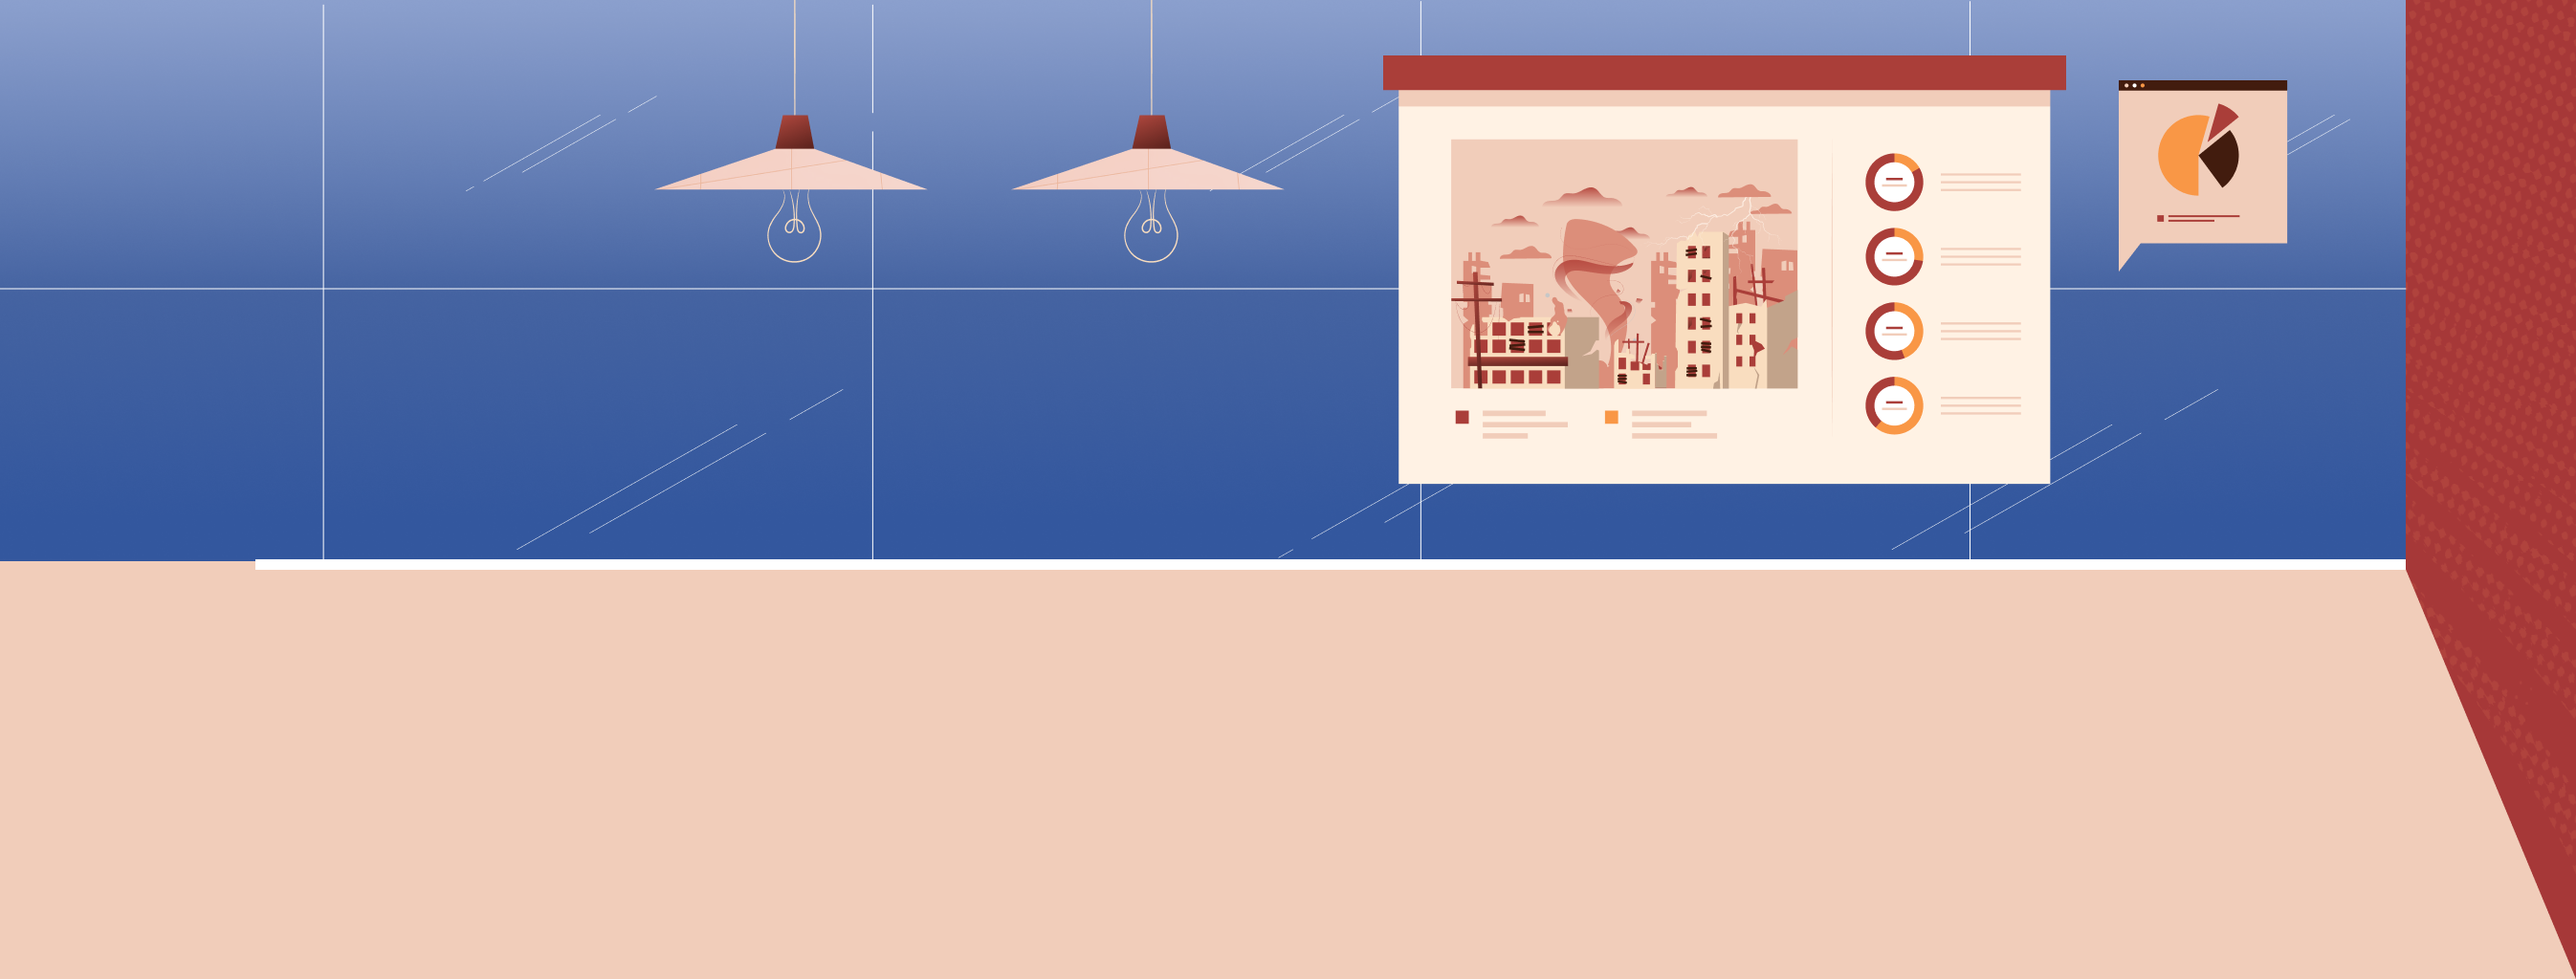
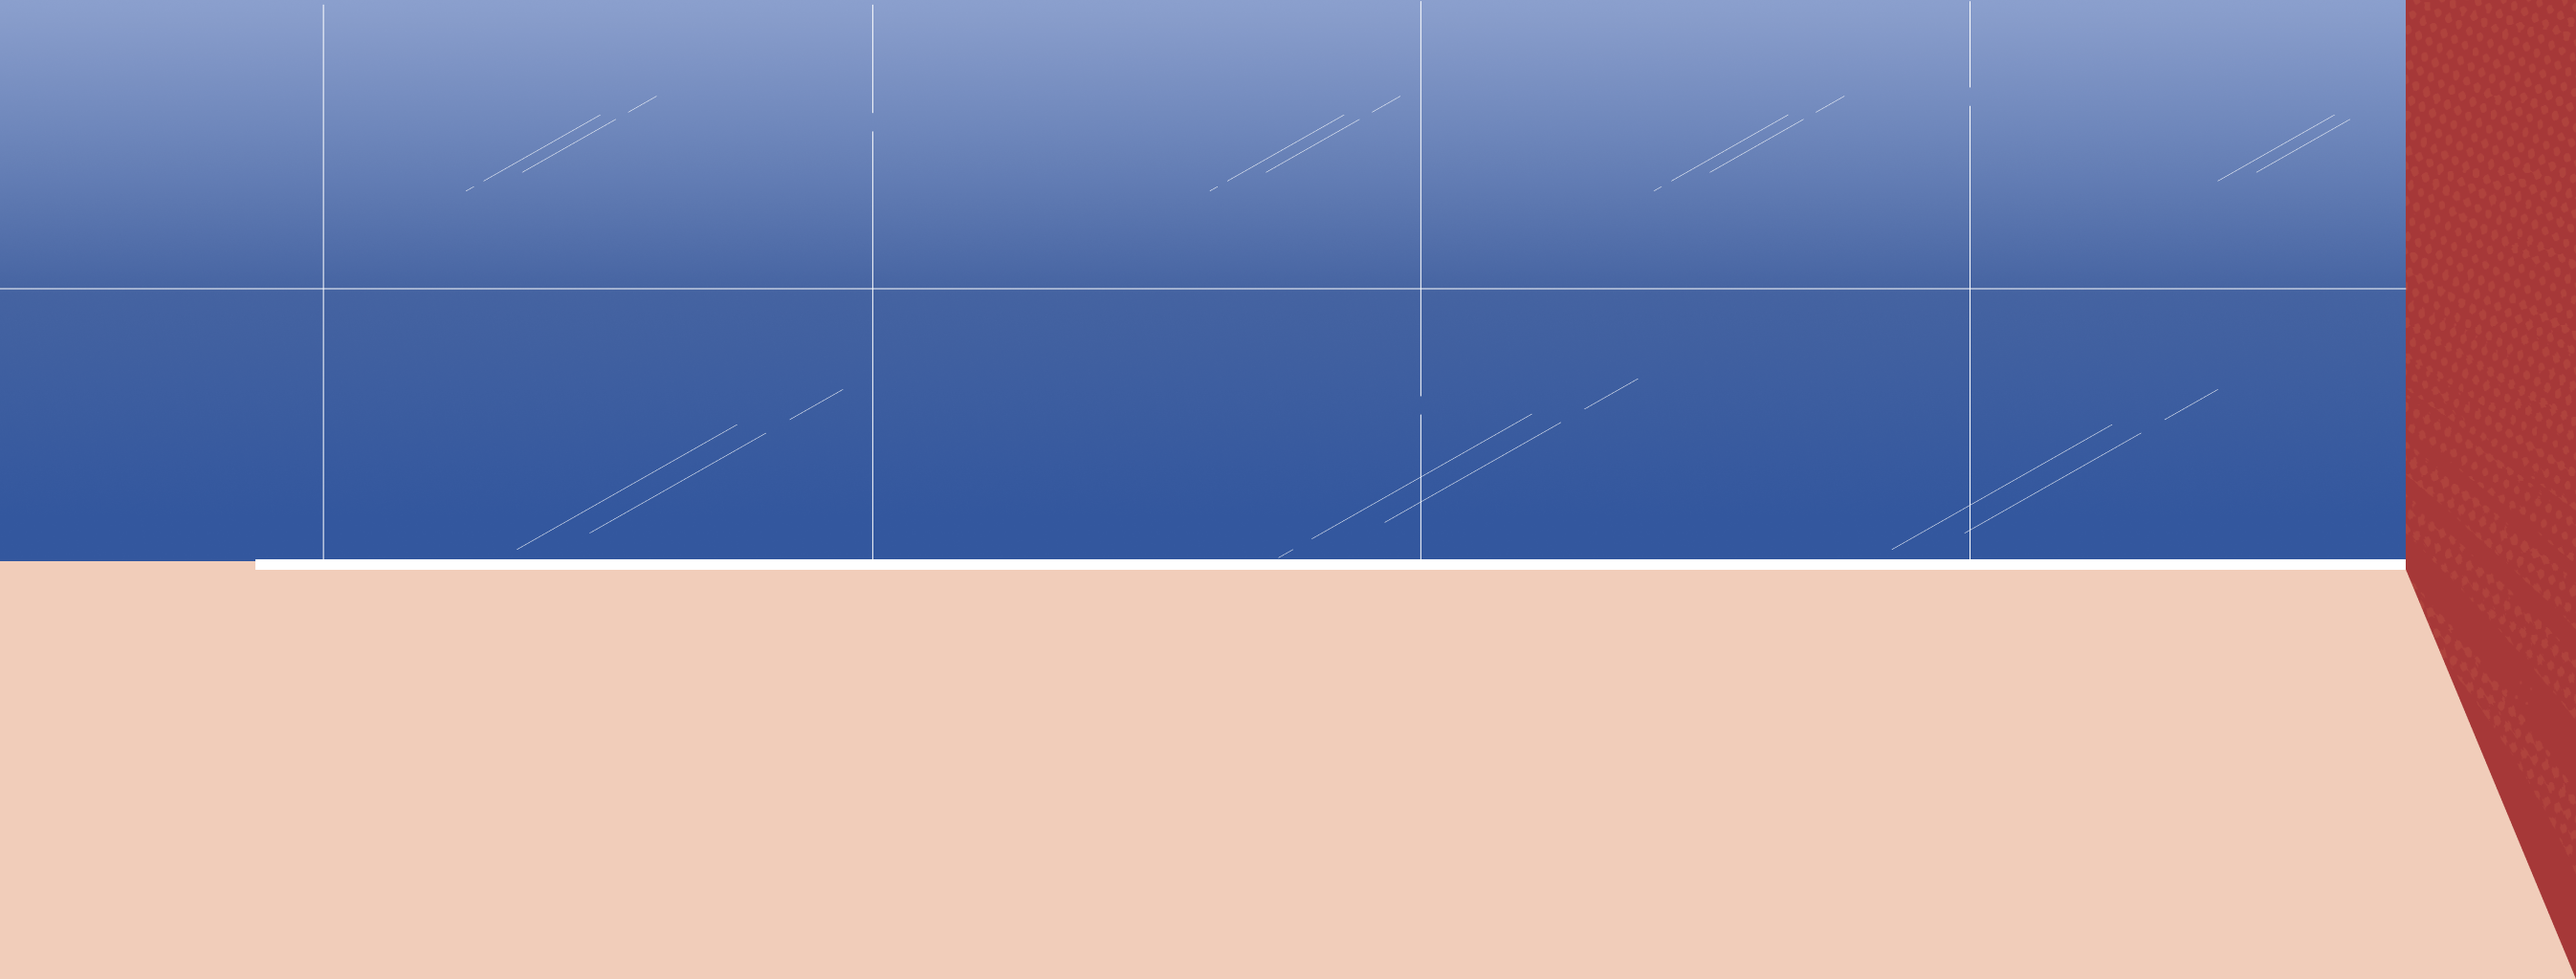
chapter-5

Changed region(s): [[0.5303, 0.0312, 0.9046, 0.5], [0.4055, 0.0938, 0.4991, 0.25], [0.2495, 0.125, 0.3743, 0.2188]]

diff --git a/components/Chapter5.vue b/components/Chapter5.vue
@@ -2,7 +2,7 @@
   <section class="b--page-a__item b--chapter5-a" id="Scene5" ref="Scene5" v-if="chapter">
     <div class="b--ss-a">
       <div class="b--ss-a__ft-items">
-        <img v-lazy="require(`@/assets/img/chapter-5/front.png`)" alt="front" />
+        <img class="b--ss-a__ft-items__parallax" ref="parallax-ft" src="@/assets/img/chapter-5/front.png">
       </div>
       <div class="b--ss-a__content">
         <!-- chapter title -->
@@ -42,12 +42,8 @@
         </div>    
       </div>
       <div class="b--ss-a__bg-items">
-        <img
-          class="b--ss-a__bg-items__artwork"
-          @load="handleLoad"
-          @error="handleLoad"
-          src="@/assets/img/chapter-5/back.png"
-        />
+        <img class="b--ss-a__bg-items__parallax" ref="parallax-bg" src="@/assets/img/chapter-5/back-parallax.png" alt=""> 
+        <img class="b--ss-a__bg-items__back" @load="handleLoad"  @error="handleLoad" src="@/assets/img/chapter-5/back.png"> 
       </div>
     </div>
   </section>

diff --git a/sass/framework/components/chapter/b--chapter5-a.scss b/sass/framework/components/chapter/b--chapter5-a.scss
@@ -1,4 +1,7 @@
 .b--chapter5-a {
+  .b--ss-a__bg-items__parallax {
+    right: 11.3%;
+  }
   &__content {
     position: absolute;
     bottom: 13.79%;
